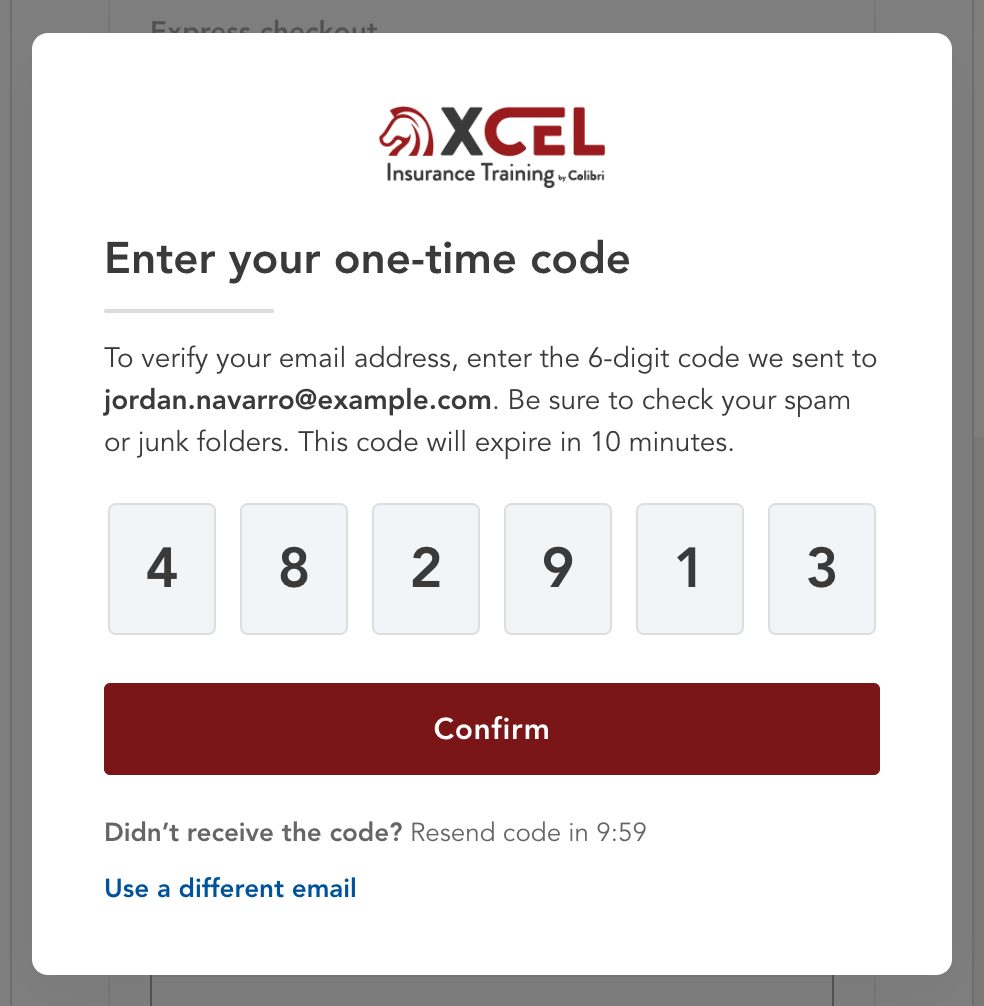
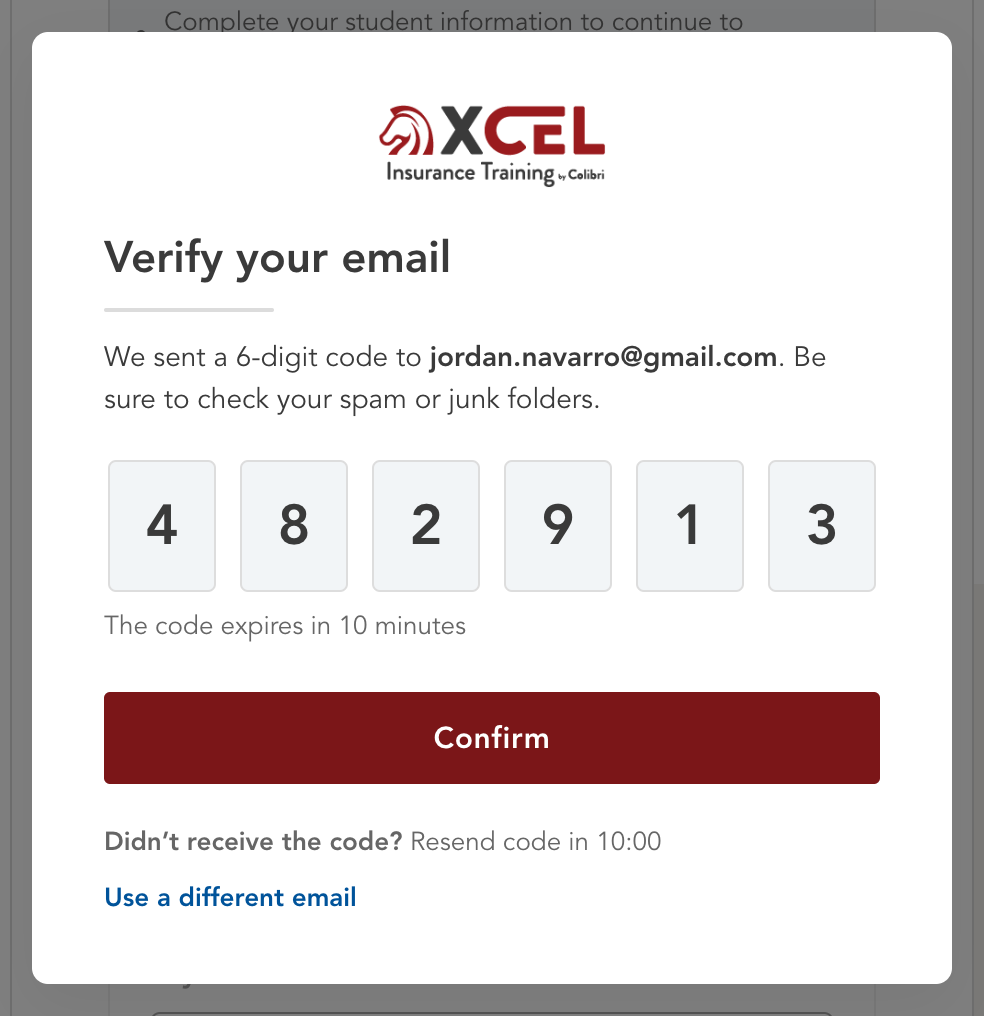
feat(invite-v3): Verify your email, the expiry under the boxes, and Email verified
The code modal's heading is "Verify your email" and its line "We sent a
6-digit code to [email]. Be sure to check your spam or junk folders.";
"The code expires in 10 minutes" sits left-aligned under the boxes. A
right code shows Email verified (green check in a pale ring, "Thanks!
Continuing…") for two seconds before the name step. Handoff, screenshots
and thumbnail updated.

diff --git a/src/data/handoffs/xcel-invite-v3-checkout-modals.ts b/src/data/handoffs/xcel-invite-v3-checkout-modals.ts
@@ -24,7 +24,7 @@ const feature: PrototypeFeature = {
   devStatus: 'not-ready',
   surface: 'invite',
   owner: 'Afsana',
-  lastUpdated: '2026-11-13T18:18:06Z',
+  lastUpdated: '2026-11-13T19:24:58Z',
   accent: 'gold',
   icon: 'flag',
   brands: ['xcel'],
@@ -90,7 +90,7 @@ const feature: PrototypeFeature = {
           { name: 'Pre-filled (Direct Email)', when: 'Direct Email when the address has no Atlas account. The field opens holding the address the partner supplied, and Continue is on.', why: 'The learner sees where the code is going before it is sent, instead of a code arriving unannounced.' },
         ],
         ctas: [
-          { name: 'Continue', does: 'Off until the email is valid. Then opens Log in to continue if the email has an Atlas account, otherwise Enter your one-time code.' },
+          { name: 'Continue', does: 'Off until the email is valid. Then opens Log in to continue if the email has an Atlas account, otherwise Verify your email (the one-time code).' },
         ],
         statesMatrix: [
           { question: 'What if the email is not valid?', answer: '"Please enter a valid email address" in red under the field, 12px, with a 2px red stroke along its bottom, shown as the learner types. Continue stays off until it is an address.' },
@@ -128,25 +128,26 @@ const feature: PrototypeFeature = {
         id: 'v3-one-time-code',
         thumbnail: '/prototype-thumbs/components/xcel-invite-v3-checkout-modals-v3-one-time-code.png',
         order: 2,
-        name: 'Enter your one-time code',
+        name: 'Verify your email (one-time code)',
         tabLabel: 'One-time code',
         location: 'Over the checkout, after Enter your email when the email has no Atlas account — Direct Email included. src/components/e2e/VerifyEmailModalV3.tsx — CodeStep.',
         summary:
-          'The XCEL logo, "Enter your one-time code", and "To verify your email address, enter the 6-digit code we sent to [email, bold]. Be sure to check your spam or junk folders. This code will expire in 10 minutes." Six digit boxes, Confirm, and under it the resend countdown.',
+          'The XCEL logo, "Verify your email", and "We sent a 6-digit code to [email, bold]. Be sure to check your spam or junk folders." Six digit boxes, "The code expires in 10 minutes" left-aligned under them, Confirm, and under it the resend countdown. A correct code turns the modal into Email verified for two seconds, then Enter your name to continue.',
         variants: [
           { name: 'Empty', when: 'On open. The first box has focus; Confirm is off.' },
           { name: 'Complete', when: 'All six digits are in. Confirm turns on.' },
           { name: 'Resend counting down', when: 'For 10 minutes after the code is sent: "Didn’t receive the code? Resend code in 10:00", counting down.', why: 'The code is valid for those 10 minutes, so a second code before then would only race the first.' },
           { name: 'Resend available', when: 'The countdown has reached 0:00. "Resend code" becomes a link.' },
-          { name: 'Code resent', when: 'Resend code was clicked. A light green banner appears above "To verify your email address…" — a check icon and "A new code has been sent." — the boxes clear and the countdown restarts.', why: 'The learner pressed a link and the modal otherwise looks the same as before; the banner confirms the request went through, where they are already reading.' },
+          { name: 'Code resent', when: 'Resend code was clicked. A light green banner appears above "We sent a 6-digit code…" — a check icon and "A new code has been sent." — the boxes clear and the countdown restarts.', why: 'The learner pressed a link and the modal otherwise looks the same as before; the banner confirms the request went through, where they are already reading.' },
           { name: 'Invalid code', when: 'Confirm with a wrong code. Red text under the boxes — "Invalid code. Please try again." — and a red stroke along the bottom of each box. Changing any digit clears both.', why: 'The learner needs to know the code was read and refused, not that nothing happened.' },
           { name: 'Expired code', when: 'Confirm after the 10 minutes have run out. Red text under the boxes — "The code has expired. Request another code." — with the same red stroke. Changing a digit or Resend code clears it.', why: 'Expired and wrong need different fixes — retyping will not help an expired code — so they say different things.' },
+          { name: 'Email verified', when: 'Confirm with a right code. The modal becomes a confirmation — a green check in a pale green ring, "Email verified", "Thanks! Continuing…" — with no buttons, and after two seconds moves on to Enter your name to continue by itself.', why: 'The learner sees the code worked before the modal asks for something new, rather than the next question simply appearing.' },
           { name: 'With Use a different email', when: 'The learner typed the email themselves: QR code, social link and B2C guest arrivals.' },
           { name: 'Without Use a different email', when: 'Direct Email. The partner’s invitation supplied the address.', why: 'There is no other address to use — the partner named this one.' },
         ],
         ctas: [
           { name: 'Digit boxes', does: 'One digit each. Typing moves to the next box, Backspace on an empty box goes back, the arrow keys move between boxes, and a pasted code fills all six. Anything that is not a digit is dropped.' },
-          { name: 'Confirm', does: 'Off until all six digits are in. Then checks the code: right → the email is verified and Enter your name to continue opens; wrong → Invalid code; after 10 minutes → Expired code.' },
+          { name: 'Confirm', does: 'Off until all six digits are in. Then checks the code: right → Email verified for two seconds, then Enter your name to continue; wrong → Invalid code; after 10 minutes → Expired code.' },
           { name: 'Resend code', does: 'Only once the countdown ends. Sends a new code, shows the green Code resent banner, clears the boxes and any error, and restarts the 10 minutes.' },
           { name: 'Use a different email', does: 'Back to Enter your email to continue. Not shown on Direct Email.' },
         ],
@@ -169,7 +170,9 @@ const feature: PrototypeFeature = {
             { role: 'Code resent banner — fill', token: '--color-success-100' },
             { role: 'Code resent banner — border', token: '--color-success-200' },
             { role: 'Code resent banner — text and icon', token: '--color-success-700' },
-            { role: 'Countdown and notes', token: '--color-text-secondary' },
+            { role: 'Countdown, expiry line and notes', token: '--color-text-secondary' },
+            { role: 'Email verified — ring and check', token: '--color-success-600' },
+            { role: 'Email verified — ring fill', token: '--color-e2e-verified-fill' },
             { role: 'Primary button', token: '--color-xcel-brick-600' },
             { role: 'Disabled button', token: '--color-e2e-form-locked' },
             { role: 'Font', token: '--font-e2e-avenir' },
@@ -179,7 +182,8 @@ const feature: PrototypeFeature = {
             'Error: 2px red stroke inside the bottom of each box, and the 12px / 16px red line under the row.',
           ],
           responsive: [
-            'Boxes 54 × 66, 12px apart, 28px digits, centred. 8px between the row and the error line.',
+            'Boxes 54 × 66, 12px apart, 28px digits, centred. 8px between the row, the error line and "The code expires in 10 minutes" (13px / 18px, left-aligned).',
+            'Email verified: centred; an 88px ring, 3px border, with a 34px check; 20px to "Email verified" (22px, 800) and 6px to "Thanks! Continuing…" (14px, secondary). Holds 2 seconds.',
             'Resend group: 13px notes, 10px apart, under Confirm.',
             'Code resent banner: between the heading’s rule and the lead, full width; padding 10px 12px, radius 6px, 1px border; 16px check icon, 8px gap; text 14px / 20px.',
           ],
@@ -519,7 +523,7 @@ const feature: PrototypeFeature = {
         },
         {
           question: 'Should Check your email say how long the reset link is valid (for example, 1 hour)?',
-          decision: 'Open. The code step states its expiry ("This code will expire in 10 minutes."), and it tells a learner who finds the email later why the link stopped working. The expiry itself is the system’s; the copy follows it.',
+          decision: 'Open. The code step states its expiry ("The code expires in 10 minutes"), and it tells a learner who finds the email later why the link stopped working. The expiry itself is the system’s; the copy follows it.',
           status: 'Needs weigh-in',
           owner: 'Design and Engineering',
         },

diff --git a/src/test/InviteFlowV3Screens.test.tsx b/src/test/InviteFlowV3Screens.test.tsx
@@ -143,13 +143,13 @@ describe('Invite Flow V3 — the Direct Email invitation', () => {
   it('after Purchase, asks for the email first when the supplied address has no Atlas, then sends the code', async () => {
     renderAt(CHECKOUT, `${DIRECT},invite-v3-email-account:no-atlas`)
     /* No code goes out until the learner says where (2026-11-13). */
-    expect(screen.queryByRole('dialog', { name: 'Enter your one-time code' })).not.toBeInTheDocument()
+    expect(screen.queryByRole('dialog', { name: 'Verify your email' })).not.toBeInTheDocument()
     const ask = screen.getByRole('dialog', { name: 'Enter your email to continue' })
     expect(ask).toHaveAccessibleDescription('Provide your email address. We will use it to find your existing account or create one.')
     /* Filled with the invitation's address. */
     expect(within(ask).getByLabelText(/Email address/)).toHaveValue(E2E_LEARNER_EMAIL)
     await userEvent.click(within(ask).getByRole('button', { name: 'Continue' }))
-    const dialog = screen.getByRole('dialog', { name: 'Enter your one-time code' })
+    const dialog = screen.getByRole('dialog', { name: 'Verify your email' })
     expect(dialog).toHaveTextContent(E2E_LEARNER_EMAIL)
     /* The partner named the address, so there is no other to go back for. */
     expect(within(dialog).queryByRole('button', { name: 'Use a different email' })).not.toBeInTheDocument()
@@ -161,9 +161,10 @@ describe('Invite Flow V3 — the Direct Email invitation', () => {
     expect(screen.queryByAltText('Locked')).not.toBeInTheDocument()
     expect(screen.queryAllByDisplayValue(E2E_LEARNER_EMAIL).filter((el) => el.closest('[role="dialog"]') === null)).toHaveLength(0)
     await userEvent.click(screen.getByRole('button', { name: 'Continue' }))
-    const dialog = screen.getByRole('dialog', { name: 'Enter your one-time code' })
+    const dialog = screen.getByRole('dialog', { name: 'Verify your email' })
     await userEvent.type(within(dialog).getByLabelText('Digit 1 of 6'), '111111')
     await userEvent.click(within(dialog).getByRole('button', { name: 'Confirm' }))
+    await screen.findByRole('dialog', { name: 'Enter your name to continue' }, { timeout: 3000 })
     await userEvent.type(screen.getByLabelText(/First name/), 'Jordan')
     await userEvent.type(screen.getByLabelText(/Last name/), 'Navarro')
     await userEvent.click(screen.getByRole('button', { name: 'Continue' }))
@@ -196,7 +197,7 @@ describe('Invite Flow V3 — the Direct Email invitation', () => {
     expect(field).toHaveValue(E2E_LEARNER_EMAIL)
     expect(field).toBeEnabled()
     expect(within(dialog).queryByAltText('Locked')).not.toBeInTheDocument()
-    expect(screen.queryByRole('dialog', { name: 'Enter your one-time code' })).not.toBeInTheDocument()
+    expect(screen.queryByRole('dialog', { name: 'Verify your email' })).not.toBeInTheDocument()
   })
 })
 
@@ -263,8 +264,10 @@ describe('Invite Flow V3 — the email check', () => {
 
       const dialog = screen.getByRole('dialog')
       expect(within(dialog).getByAltText(/XCEL/)).toBeInTheDocument()
-      expect(dialog).toHaveTextContent('To verify your email address, enter the 6-digit code we sent to sam@example.com.')
-      expect(dialog).toHaveTextContent('Be sure to check your spam or junk folders. This code will expire in 10 minutes.')
+      expect(dialog).toHaveTextContent('We sent a 6-digit code to sam@example.com. Be sure to check your spam or junk folders.')
+      expect(within(dialog).getByText('sam@example.com').tagName).toBe('STRONG')
+      /* The expiry, under the boxes (2026-11-13). */
+      expect(dialog).toHaveTextContent('The code expires in 10 minutes')
       expect(dialog).toHaveTextContent('Didn’t receive the code? Resend code in 10:00')
       expect(within(dialog).queryByRole('button', { name: 'Resend code' })).not.toBeInTheDocument()
       expect(within(dialog).getByRole('button', { name: 'Use a different email' })).toBeInTheDocument()
@@ -274,7 +277,7 @@ describe('Invite Flow V3 — the email check', () => {
       /* A light green banner over the lead, not a line under the countdown. */
       const banner = within(dialog).getByRole('status')
       expect(banner).toHaveTextContent(/^A new code has been sent\.$/)
-      expect(banner.compareDocumentPosition(within(dialog).getByText(/^To verify your email address/)) & Node.DOCUMENT_POSITION_FOLLOWING).toBeTruthy()
+      expect(banner.compareDocumentPosition(within(dialog).getByText(/^We sent a 6-digit code/)) & Node.DOCUMENT_POSITION_FOLLOWING).toBeTruthy()
       expect(dialog).not.toHaveTextContent('We sent a new code')
       expect(dialog).toHaveTextContent('Resend code in 10:00')
     } finally {
@@ -287,15 +290,20 @@ describe('Invite Flow V3 — the email check', () => {
     await userEvent.type(screen.getByLabelText(/Email address/), 'sam@example.com')
     await userEvent.click(screen.getByRole('button', { name: 'Continue' }))
 
-    expect(screen.getByRole('heading', { name: 'Enter your one-time code' })).toBeInTheDocument()
+    expect(screen.getByRole('heading', { name: 'Verify your email' })).toBeInTheDocument()
     const confirm = screen.getByRole('button', { name: 'Confirm' })
     expect(confirm).toBeDisabled()
     await userEvent.type(screen.getByLabelText('Digit 1 of 6'), '111111')
     expect(confirm).toBeEnabled()
     await userEvent.click(confirm)
 
+    /* Email verified holds for two seconds, then moves on by itself (2026-11-13). */
+    const verified = screen.getByRole('dialog', { name: 'Email verified' })
+    expect(verified).toHaveAccessibleDescription('Thanks! Continuing…')
+    expect(within(verified).queryByRole('button')).not.toBeInTheDocument()
+
     /* No Atlas account: the name is asked before the checkout (2026-11-13). */
-    const named = screen.getByRole('dialog', { name: 'Enter your name to continue' })
+    const named = await screen.findByRole('dialog', { name: 'Enter your name to continue' }, { timeout: 3000 })
     const go = within(named).getByRole('button', { name: 'Continue' })
     expect(go).toBeDisabled()
     await userEvent.type(within(named).getByLabelText(/First name/), 'Sam')
@@ -339,7 +347,7 @@ describe('Invite Flow V3 — the email check', () => {
 
     const error = screen.getByRole('alert')
     expect(error).toHaveTextContent('Invalid code. Please try again.')
-    expect(screen.getByRole('heading', { name: 'Enter your one-time code' })).toBeInTheDocument()
+    expect(screen.getByRole('heading', { name: 'Verify your email' })).toBeInTheDocument()
     expect(screen.getByLabelText('Digit 1 of 6')).toHaveAttribute('aria-describedby', 'code-invalid')
     /* The red stroke along the bottom of every box. */
     for (let i = 1; i <= 6; i++) {

diff --git a/src/components/e2e/VerifyEmailModalV3.tsx b/src/components/e2e/VerifyEmailModalV3.tsx
@@ -13,7 +13,7 @@ import {
   type VerifiedIdentity,
 } from '@/data/inviteVerification'
 import { looksLikeEmail } from '@/data/inviteFlows'
-import { CircleCheckSolid } from '@/icons'
+import { Check, CircleCheckSolid } from '@/icons'
 import { V3_EXPIRED_DEMO_CODE, V3_INVALID_DEMO_CODE, V3_WRONG_DEMO_PASSWORD } from '@/data/inviteFlowsV3'
 import { E2E_LEARNER_EMAIL, E2E_LEARNER_FIRST, E2E_LEARNER_LAST } from '@/pages/endToEndDemo'
 import { LOADING_HANDOFF_MS } from '@/components/e2e/XcelLoadingPage'
@@ -38,7 +38,7 @@ import '@/pages/inviteFlow.css'
  *   - 460 wide, with Continue, Confirm and Log in full width, OFF until the
  *     step is complete (V2's are always on and explain on press);
  *   - the code boxes are 54 × 66 and centred. Since 2026-11-03 (Afsana) the
- *     code step carries the XCEL logo over "Enter your one-time code", and
+ *     code step carries the XCEL logo over "Verify your email" (was "Enter your one-time code" until 2026-11-13), and
  *     under Confirm: "Didn't receive the code? Resend code in 10:00",
  *     counting down until Resend unlocks, then Use a different email;
  *   - ANY six digits are accepted, as in the file — there is no wrong code and
@@ -78,7 +78,7 @@ export function VerifyEmailModalV3({
      no longer goes straight to the code (2026-11-13, Afsana): the email step
      comes first, filled with the invitation's address, so no code is sent
      before the learner says where. */
-  const [step, setStep] = useState<'email' | 'code' | 'name' | 'login' | 'signing-in'>(() =>
+  const [step, setStep] = useState<'email' | 'code' | 'verified' | 'name' | 'login' | 'signing-in'>(() =>
     suppliedEmail && second === 'login' ? 'login' : 'email',
   )
   const layer = useV3DialogLayer()
@@ -97,6 +97,13 @@ export function VerifyEmailModalV3({
   useEffect(() => {
     document.getElementById('verify-email-modal')?.focus()
   }, [])
+
+  /* Email verified holds, then the name (2026-11-13, Afsana). */
+  useEffect(() => {
+    if (step !== 'verified') return
+    const timer = window.setTimeout(() => setStep('name'), VERIFIED_HOLD_MS)
+    return () => window.clearTimeout(timer)
+  }, [step])
 
   /* The second step is done: hold on "Signing you in" first where the flow
      has it, the flow's usual three seconds. */
@@ -193,9 +200,11 @@ export function VerifyEmailModalV3({
         ) : step === 'code' ? (
           <CodeStep
             identity={identity}
-            onVerified={() => setStep('name')}
+            onVerified={() => setStep('verified')}
             onChangeEmail={suppliedEmail ? undefined : () => setStep('email')}
           />
+        ) : step === 'verified' ? (
+          <EmailVerified />
         ) : step === 'name' ? (
           <NameStep first={first} last={last} onFirst={setFirst} onLast={setLast} onDone={done} />
         ) : step === 'login' ? (
@@ -312,7 +321,7 @@ function CodeStep({
       <img src="/brand/xcel-logo.webp" alt="XCEL Insurance Training by Colibri" style={CODE_LOGO} />
       <div style={HEAD}>
         <h2 id="verify-email-title" style={TITLE}>
-          Enter your one-time code
+          Verify your email
         </h2>
         <div aria-hidden style={RULE} />
         {/* Code resent — a light green banner over the lead (2026-11-05,
@@ -325,9 +334,10 @@ function CodeStep({
           </p>
         ) : null}
         <p id="verify-email-lead" style={LEAD}>
-          To verify your email address, enter the 6-digit code we sent to{' '}
-          <strong style={{ fontWeight: 800 }}>{identity.email.trim()}</strong>. Be sure to check your spam or junk
-          folders. This code will expire in 10 minutes.
+          {/* Shorter, with the expiry moved under the boxes (2026-11-13,
+              Afsana). */}
+          We sent a 6-digit code to <strong style={{ fontWeight: 800 }}>{identity.email.trim()}</strong>. Be sure to
+          check your spam or junk folders.
         </p>
       </div>
 
@@ -362,6 +372,7 @@ function CodeStep({
             {codeError === 'expired' ? 'The code has expired. Request another code.' : 'Invalid code. Please try again.'}
           </p>
         ) : null}
+        <p style={NOTE}>The code expires in 10 minutes</p>
       </div>
 
       <div style={ACTIONS}>
@@ -411,6 +422,31 @@ function CodeStep({
 }
 
 const RESEND_AFTER_S = 10 * 60
+
+/* How long Email verified shows before the name step. */
+const VERIFIED_HOLD_MS = 2000
+
+/** "Email verified" — 2026-11-13, Afsana, from a reference image: a green
+ *  check in a pale green ring, "Email verified", "Thanks! Continuing…". Shown
+ *  after a code is accepted, then the modal moves on by itself. */
+function EmailVerified() {
+  return (
+    <div style={VERIFIED} role="status">
+      <span aria-hidden style={VERIFIED_RING}>
+        {/* The light icon, stroked heavier to match the reference. */}
+        <Check size={34} style={{ stroke: 'currentColor', strokeWidth: 28 }} />
+      </span>
+      <div style={{ ...HEAD, alignItems: 'center', gap: 6 }}>
+        <h2 id="verify-email-title" style={TITLE}>
+          Email verified
+        </h2>
+        <p id="verify-email-lead" style={{ ...LEAD, color: 'var(--color-text-secondary)' }}>
+          Thanks! Continuing…
+        </p>
+      </div>
+    </div>
+  )
+}
 
 /* How long Resend link stays off after a reset link is sent — the demo's
    stand-in for whatever the system allows (2026-11-05). */
@@ -1176,6 +1212,26 @@ const FORGOT: CSSProperties = {
    (2026-11-03, Afsana). */
 /* Smaller than the loading page's 72 (2026-11-03, Afsana). */
 const SIGNING_SPINNER = 48
+
+const VERIFIED: CSSProperties = {
+  display: 'flex',
+  flexDirection: 'column',
+  alignItems: 'center',
+  gap: 20,
+  padding: '16px 0 12px',
+  textAlign: 'center',
+}
+
+const VERIFIED_RING: CSSProperties = {
+  display: 'grid',
+  placeItems: 'center',
+  width: 88,
+  height: 88,
+  borderRadius: '50%',
+  border: '3px solid var(--color-success-600)',
+  background: 'var(--color-e2e-verified-fill)',
+  color: 'var(--color-success-600)',
+}
 
 const SIGNING_IN: CSSProperties = {
   display: 'flex',

diff --git a/src/data/inviteFlowsV3.ts b/src/data/inviteFlowsV3.ts
@@ -305,7 +305,7 @@ export function isOcdCartFlow(id: InviteFlowV3Id | undefined): boolean {
  *  linked with an atlas account, they are prompted to sign in. if is not,
  *  they have to enter the one time code". The established modals: Log in to
  *  continue, then the checkout filled from the account and Start course; or
- *  Enter your one-time code, the full checkout, then a password. */
+ *  Verify your email (the one-time code), the full checkout, then a password. */
 export function directEmailFlowV3(flow: InviteFlowV3, email: V3EmailAccount): InviteFlowV3 {
   const start = ['email', 'pdp']
   return {

diff --git a/src/styles/tokens.css b/src/styles/tokens.css
@@ -7723,6 +7723,9 @@ a.cre-library-card-title::after {
   /* V3's modal fields ring in blue when focused, not the brick the CTAs use
      (2026-11-13, Afsana). 5.2:1 on white. */
   --color-e2e-field-focus-v3: #2563eb;
+  /* Email verified's ring fill — paler than success-100, from the reference
+     (2026-11-13, Afsana). */
+  --color-e2e-verified-fill: #eef8f2;
   --color-e2e-form-text: #4a5568;
   --color-e2e-form-placeholder: #4b5563;
   --color-e2e-form-shadow: rgb(0 0 0 / 0.05);

diff --git a/src/components/prototype/inviteV3HandoffStateImages.ts b/src/components/prototype/inviteV3HandoffStateImages.ts
@@ -37,6 +37,7 @@ const STATE_IMAGES: Record<string, Record<string, string>> = {
     'Code resent': `${MODALS}/one-time-code--resent.png`,
     'Invalid code': `${MODALS}/one-time-code--invalid.png`,
     'Expired code': `${MODALS}/one-time-code--expired.png`,
+    'Email verified': `${MODALS}/email-verified.png`,
     'With Use a different email': `${MODALS}/one-time-code--empty.png`,
     'Without Use a different email': `${MODALS}/one-time-code--direct-email.png`,
   },
